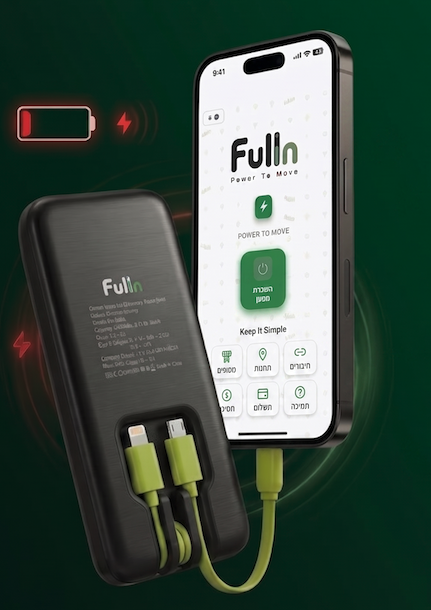
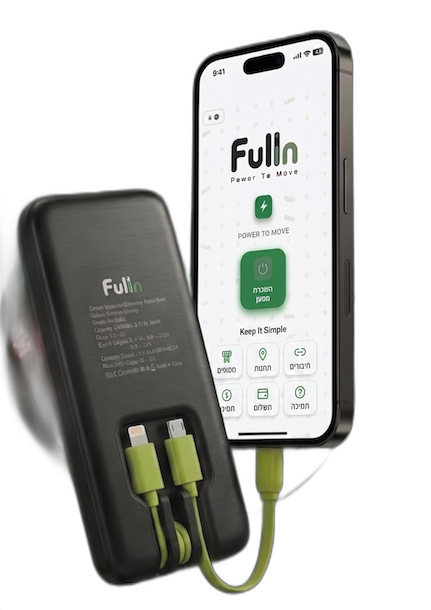
feat(hero): transparent bg, new headline, button text, live app links
Four hero changes in one pass:

1. Remove the image background
   The fullin-hero-composite.png shipped with a dark green gradient
   baked in, which created a visible rectangle on the section's own
   gradient. Ran it through rembg (U²-Net) to cut the foreground:
     from rembg import remove
     out = remove(Image.open(src))
   Result: 431x610 RGBA with genuine alpha. File shrunk from 400 KB
   to 224 KB. Verified on a dark composited preview — phone, power
   bank and sparkle effects read cleanly against the transparent bg.

2. New hero H1
   Old: 'תמיד טעון, לא משנה איפה' with 'טעון' in brand green
   New: 'ה1% האחרון הוא שקרן' with 'שקרן' in red (#ff3b30)
   Added a .bold-text.red modifier scoped to .main-heading in
   rtl-overrides.css so it overrides the stock brand-green colour
   without leaking onto other bold-text usages elsewhere.

3. Secondary button copy
   Hero CTA changed from 'הצטרפו כשותפי עסקי' to 'הצטרפו למהפכה'.
   Only the hero instance (index.html:81). The duplicate string at
   :94 inside section-2 .div-block-4 is untouched per user scope.
   href still points at contact-us.html.

4. Live App Store + Google Play links
   The .div-block-2 wrapper had style='opacity:0' from Webflow so
   the badges were hidden — dropped that inline style. Wrapped each
   badge <img> in an <a> with target='_blank' rel='noopener' and
   the live URLs supplied by the user:
     - App Store: https://apps.apple.com/il/app/fullin/id6757767367?l=he
[…]

diff --git a/index.html b/index.html
@@ -69,16 +69,16 @@
     <div class="w-layout-blockcontainer main-container w-container">
       <div class="hero-div">
         <div class="div-block-41">
-          <h1 data-w-id="02471046-4a74-eef9-f56c-856d1b8fd0fe" style="-webkit-transform:translate3d(0, 149px, 0) scale3d(1, 1, 1) rotateX(0) rotateY(0) rotateZ(0) skew(0, 0);-moz-transform:translate3d(0, 149px, 0) scale3d(1, 1, 1) rotateX(0) rotateY(0) rotateZ(0) skew(0, 0);-ms-transform:translate3d(0, 149px, 0) scale3d(1, 1, 1) rotateX(0) rotateY(0) rotateZ(0) skew(0, 0);transform:translate3d(0, 149px, 0) scale3d(1, 1, 1) rotateX(0) rotateY(0) rotateZ(0) skew(0, 0)" class="main-heading">תמיד <strong class="bold-text">טעון</strong>, לא משנה איפה</h1>
+          <h1 data-w-id="02471046-4a74-eef9-f56c-856d1b8fd0fe" style="-webkit-transform:translate3d(0, 149px, 0) scale3d(1, 1, 1) rotateX(0) rotateY(0) rotateZ(0) skew(0, 0);-moz-transform:translate3d(0, 149px, 0) scale3d(1, 1, 1) rotateX(0) rotateY(0) rotateZ(0) skew(0, 0);-ms-transform:translate3d(0, 149px, 0) scale3d(1, 1, 1) rotateX(0) rotateY(0) rotateZ(0) skew(0, 0);transform:translate3d(0, 149px, 0) scale3d(1, 1, 1) rotateX(0) rotateY(0) rotateZ(0) skew(0, 0)" class="main-heading">ה1% האחרון הוא <strong class="bold-text red">שקרן</strong></h1>
         </div>
         <div class="div-block-34">
           <p data-w-id="741bf9d1-6e78-18b1-ccaa-e18c620c110e" style="-webkit-transform:translate3d(0, 149px, 0) scale3d(1, 1, 1) rotateX(0) rotateY(0) rotateZ(0) skew(0, 0);-moz-transform:translate3d(0, 149px, 0) scale3d(1, 1, 1) rotateX(0) rotateY(0) rotateZ(0) skew(0, 0);-ms-transform:translate3d(0, 149px, 0) scale3d(1, 1, 1) rotateX(0) rotateY(0) rotateZ(0) skew(0, 0);transform:translate3d(0, 149px, 0) scale3d(1, 1, 1) rotateX(0) rotateY(0) rotateZ(0) skew(0, 0)" class="font-16">לא תישארו עם סוללה ריקה יותר לעולם.<br><br>שכרו מטען נייד תוך שניות מכל עמדת FULLIN, והחזירו בכל עמדה ברחבי הרשת.<br><br>בלי הרשמה. בלי אפליקציה. רק הכוח לזוז.</p>
         </div>
-        <div data-w-id="f89460e3-f431-4fab-e86c-9ab055605b37" style="opacity:0" class="div-block-2">
-          <div class="div-block"><img src="images/image-2509.png" loading="lazy" alt="App Store" class="app-store"></div>
-          <div class="div-block"><img src="images/image-2508.png" loading="lazy" alt="Google Play" class="app-store google-play"></div>
+        <div data-w-id="f89460e3-f431-4fab-e86c-9ab055605b37" class="div-block-2">
+          <div class="div-block"><a href="https://apps.apple.com/il/app/fullin/id6757767367?l=he" target="_blank" rel="noopener"><img src="images/image-2509.png" loading="lazy" alt="הורידו מ-App Store" class="app-store"></a></div>
+          <div class="div-block"><a href="https://play.google.com/store/apps/details?id=com.fullin.app&amp;pcampaignid=web_share" target="_blank" rel="noopener"><img src="images/image-2508.png" loading="lazy" alt="הורידו מ-Google Play" class="app-store google-play"></a></div>
         </div>
-        <a href="contact-us.html" class="secondry-button w-button">הצטרפו כשותפי עסקי</a>
+        <a href="contact-us.html" class="secondry-button w-button">הצטרפו למהפכה</a>
       </div>
     </div>
   </section>

diff --git a/css/rtl-overrides.css b/css/rtl-overrides.css
@@ -163,6 +163,15 @@ html[lang="he-il"] .main-heading {
   direction: rtl;
 }
 
+/* Red accent word inside the hero H1 ("שקרן"). Stock .bold-text paints
+ * the word in brand green — override to a warning red so it contrasts
+ * with the rest of the white heading and ties into the low-battery
+ * warning theme. Scoped to .main-heading to stay out of other pages. */
+html[lang="he-il"] .main-heading .bold-text.red,
+.main-heading .bold-text.red {
+  color: #ff3b30;
+}
+
 html[lang="he-il"] .div-block-41 {
   justify-content: flex-end;
   align-items: flex-end;
